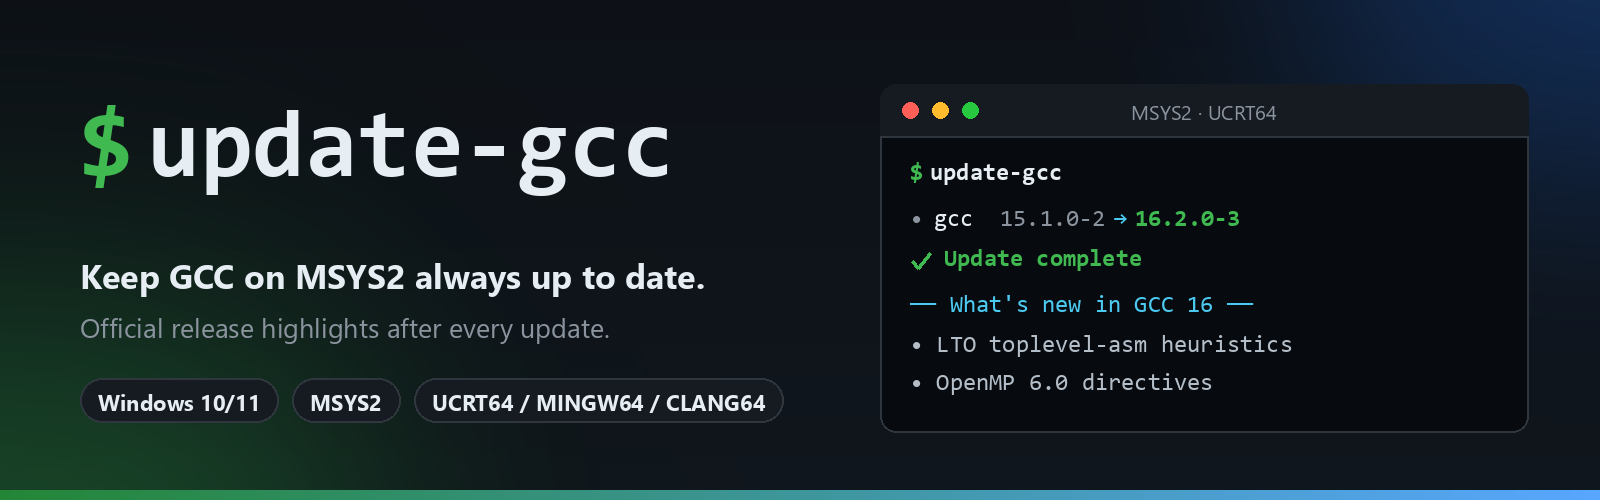
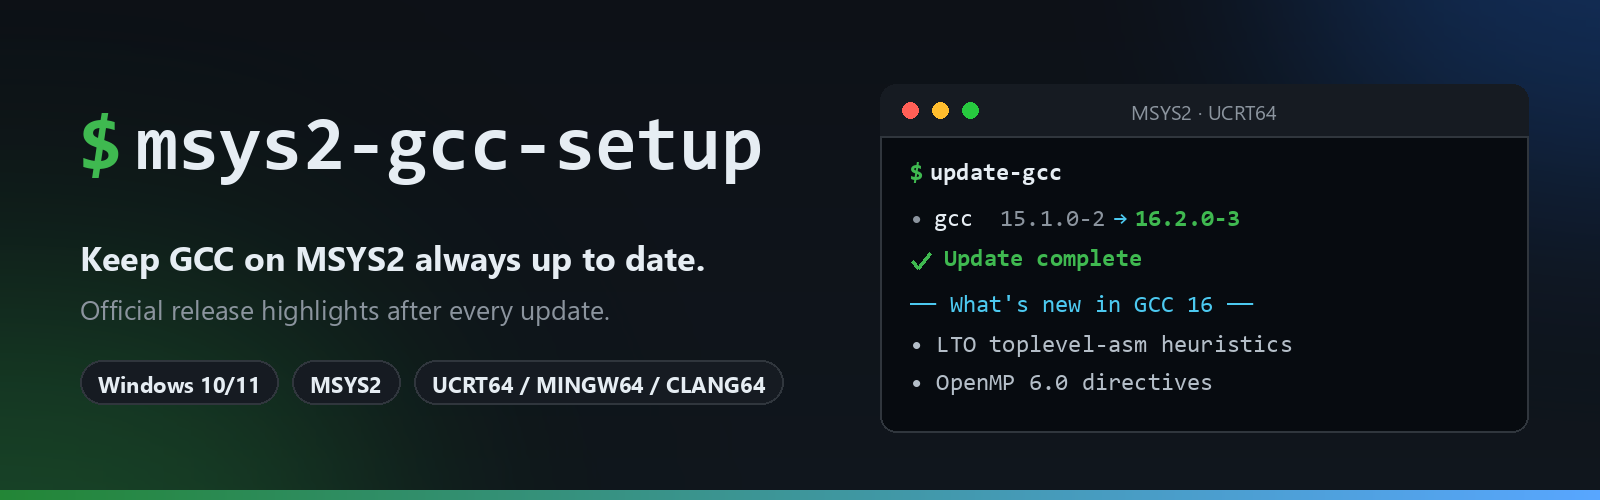
Rename project to msys2-gcc-setup
The repo now covers the full workflow (PATH setup + compiler updates
+ release highlights), so 'update-gcc' no longer described it.
- README: new intro, setup feature, updated URLs and badges
- banner regenerated with the project name
- INSTALL.txt: updated title and documentation URL
- the updater command keeps its accurate name: update-gcc

Changed region(s): [[0.0312, 0.48, 0.4375, 0.69], [0.0312, 0.72, 0.5, 0.87], [0.0312, 0.21, 0.5, 0.39]]

diff --git a/assets/make_banner.py b/assets/make_banner.py
@@ -61,7 +61,7 @@ def main():
     img = glow(img, 1500, -40, 300, (31, 111, 235), 80)
     d = ImageDraw.Draw(img)
 
-    f_title = font("mono_b", 96)
+    f_title = font("mono_b", 76)
     f_tag = font("ui_b", 34)
     f_sub = font("ui", 27)
     f_chip = font("ui_b", 22)
@@ -69,10 +69,10 @@ def main():
     f_term_b = font("mono_b", 24)
 
     # ---- left column -----------------------------------------------------
-    x, y = 80, 104
+    x, y = 80, 112
     d.text((x, y), "$", font=f_title, fill=GREEN)
-    d.text((x + d.textlength("$", font=f_title) + 14, y), "update-gcc", font=f_title, fill=FG)
-    y += 148
+    d.text((x + d.textlength("$", font=f_title) + 14, y), "msys2-gcc-setup", font=f_title, fill=FG)
+    y += 122
     d.text((x, y), "Keep GCC on MSYS2 always up to date.", font=f_tag, fill=FG)
     y += 56
     d.text((x, y), "Official release highlights after every update.", font=f_sub, fill=DIM)

diff --git a/README.md b/README.md
@@ -1,30 +1,33 @@
-# update-gcc
+# msys2-gcc-setup
 
 <div align="center">
-  <img src="assets/banner.png" alt="update-gcc — keep GCC on MSYS2 always up to date" width="100%">
+  <img src="assets/banner.png" alt="msys2-gcc-setup — set up GCC on MSYS2 and keep it always up to date" width="100%">
 </div>
 
 <div align="center">
 
-[![Release](https://img.shields.io/github/v/release/laurentvv/update-gcc?logo=github)](https://github.com/laurentvv/update-gcc/releases/latest)
-[![License: MIT](https://img.shields.io/github/license/laurentvv/update-gcc)](LICENSE)
+[![Release](https://img.shields.io/github/v/release/laurentvv/msys2-gcc-setup?logo=github)](https://github.com/laurentvv/msys2-gcc-setup/releases/latest)
+[![License: MIT](https://img.shields.io/github/license/laurentvv/msys2-gcc-setup)](LICENSE)
 ![Platform](https://img.shields.io/badge/platform-Windows%2010%20%2F%2011-0078d6?logo=windows11&logoColor=white)
 ![Shell](https://img.shields.io/badge/shell-Bash-4EAA25?logo=gnu-bash&logoColor=white)
 ![Toolchain](https://img.shields.io/badge/MSYS2-UCRT64%20%2F%20MINGW64%20%2F%20CLANG64-brown)
 
 </div>
 
-**update-gcc** is a one-command updater for the **GCC compiler on MSYS2 (Windows)**.
-It keeps your toolchain at the latest version published in the MSYS2 repositories and,
-after every update, **shows you what's new** — a structured extract of the official
-release notes from [gcc.gnu.org](https://gcc.gnu.org), so you never miss a language
-feature, an optimization, or a breaking change.
+**msys2-gcc-setup** is a small toolkit to **set up and maintain the GCC compiler
+on MSYS2 (Windows)**. It adds MSYS2 to your Windows PATH in one double-click,
+keeps the toolchain at the latest version published in the MSYS2 repositories
+and, after every update, **shows you what's new** — a structured extract of the
+official release notes from [gcc.gnu.org](https://gcc.gnu.org), so you never
+miss a language feature, an optimization, or a breaking change.
 
-No more stale compilers, and no more digging through changelogs: run one command,
-read the highlights, get back to coding.
+No more stale compilers, no more manual PATH editing, and no more digging
+through changelogs: install once, run one command, read the highlights, get
+back to coding.
 
 ## ✨ Features
 
+- **One-double-click setup** — `add-to-path` makes `gcc`, `pacman` and `bash` callable from any terminal (CMD, PowerShell, VS Code...), reversibly, without shadowing Windows built-ins.
 - **Always up to date** — compares your installed GCC against the MSYS2 repositories (`pacman -Sy` + `vercmp`) and upgrades only when a newer version exists.
 - **Always shows the news** — fetches the official *changes* page for the target major version and converts it into a readable summary (caveats, general improvements, C/C++ changes, OpenMP, …).
 - **Multi-environment aware** — detects every GCC variant you have installed: UCRT64, MINGW64, CLANG64 and the MSYS subsystem.
@@ -46,7 +49,7 @@ read the highlights, get back to coding.
 
 ### Option A — from the release (recommended)
 
-Grab `update-gcc-vX.Y.Z.zip` from the [latest release](https://github.com/laurentvv/update-gcc/releases/latest) and follow the included `INSTALL.txt`:
+Grab `msys2-gcc-setup-vX.Y.Z.zip` from the [latest release](https://github.com/laurentvv/msys2-gcc-setup/releases/latest) and follow the included `INSTALL.txt`:
 
 1. Copy `update-gcc` to `C:\msys64\usr\local\bin\` (create the folder if needed).
 2. Copy `update-gcc.cmd` to `C:\msys64\`.
@@ -58,7 +61,7 @@ Or do it in one go from **PowerShell**:
 ```powershell
 $msys = "C:\msys64"   # adjust if MSYS2 lives elsewhere
 New-Item -ItemType Directory -Force "$msys\usr\local\bin" | Out-Null
-$base = "https://raw.githubusercontent.com/laurentvv/update-gcc/main"
+$base = "https://raw.githubusercontent.com/laurentvv/msys2-gcc-setup/main"
 Invoke-WebRequest "$base/update-gcc"    -OutFile "$msys\usr\local\bin\update-gcc"
 Invoke-WebRequest "$base/update-gcc.cmd" -OutFile "$msys\update-gcc.cmd"
 ```
@@ -66,8 +69,8 @@ Invoke-WebRequest "$base/update-gcc.cmd" -OutFile "$msys\update-gcc.cmd"
 ### Option B — from source
 
 ```powershell
-git clone https://github.com/laurentvv/update-gcc.git
-cd update-gcc
+git clone https://github.com/laurentvv/msys2-gcc-setup.git
+cd msys2-gcc-setup
 copy update-gcc     C:\msys64\usr\local\bin\
 copy update-gcc.cmd C:\msys64\
 ```
